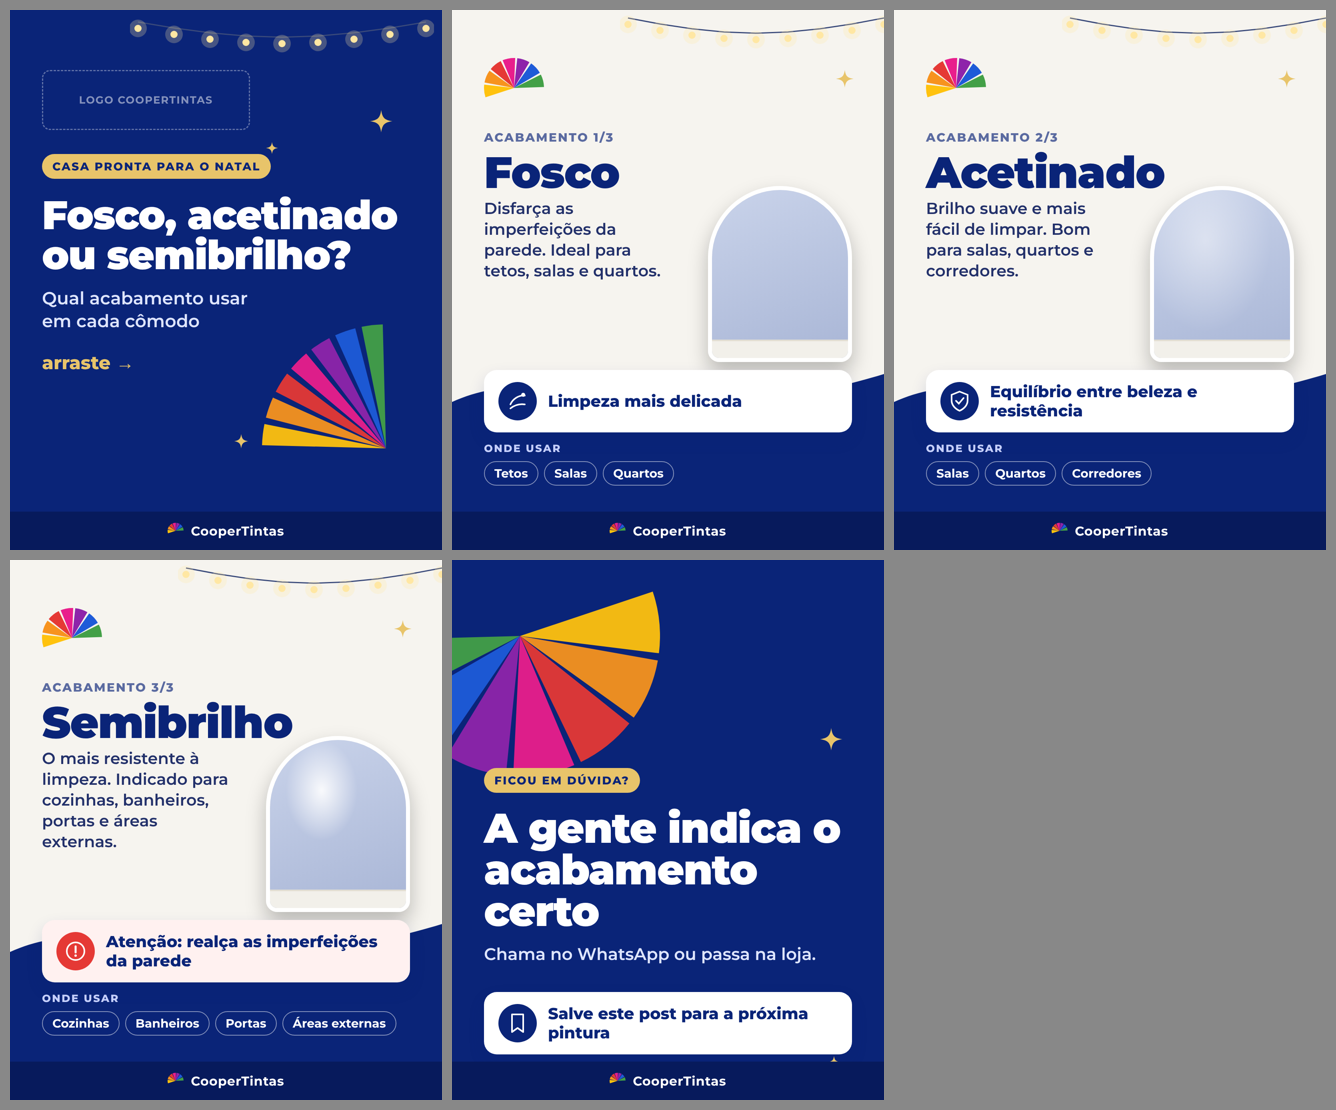
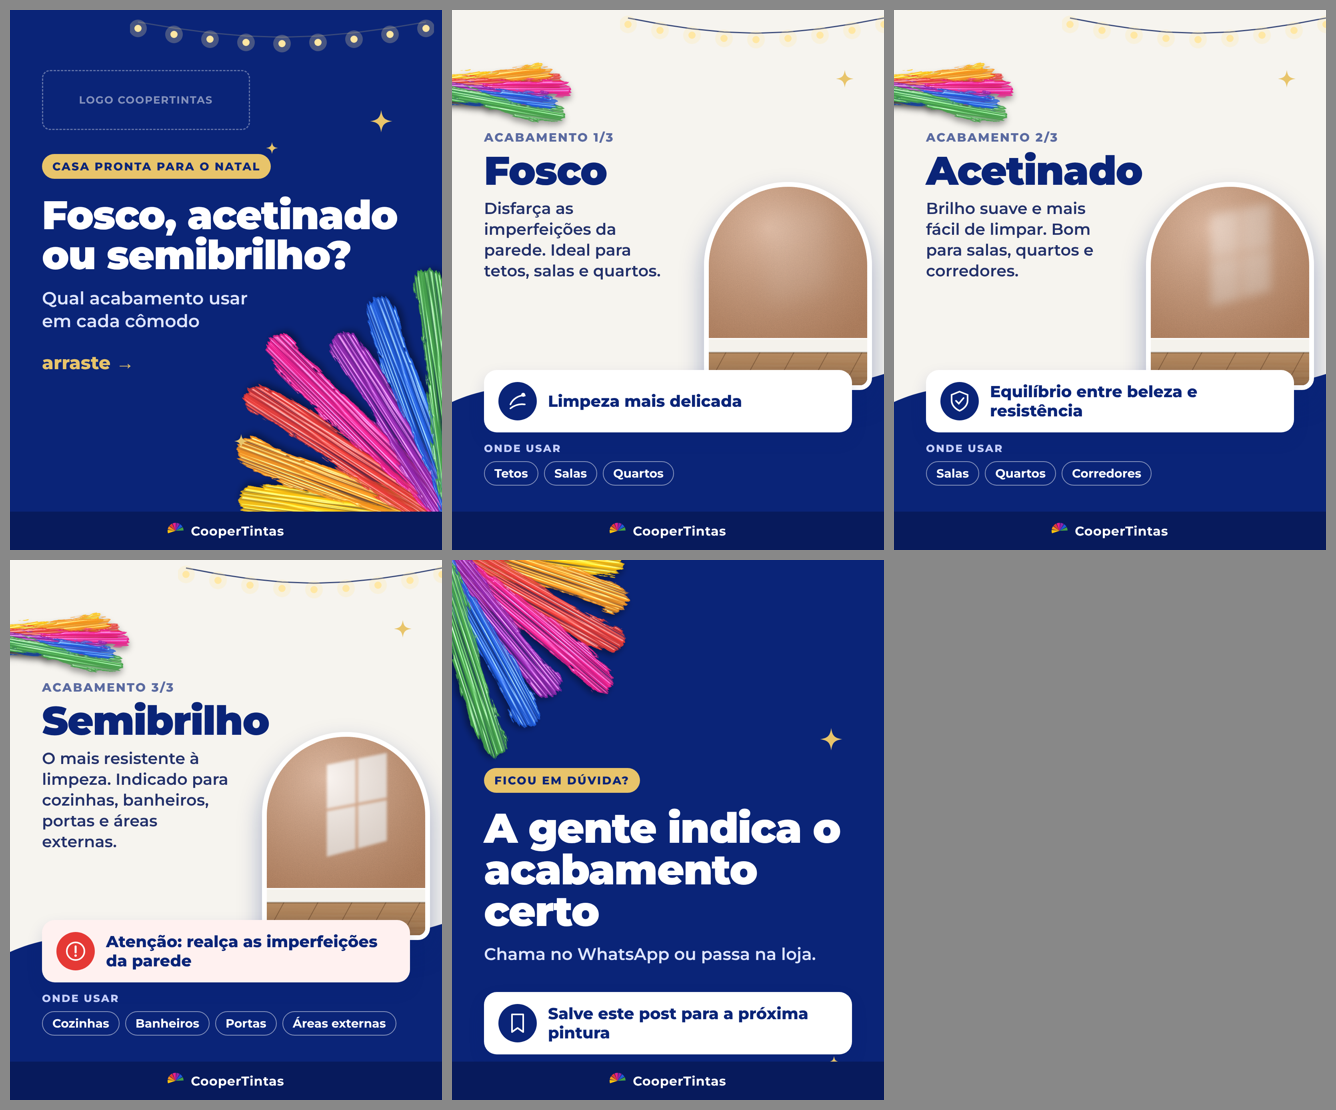
CooperTintas: carrossel de acabamentos com visual realista
Pinceladas com textura de cerdas, relevo e brilho de tinta molhada (filtros SVG);
ambiente com parede rebocada, luz de janela com reflexo conforme o acabamento,
rodapé e piso de madeira. Tudo gerado em código, sem créditos do Canva.

Claude-Session: https://claude.ai/code/session_01Bdkb1FZ5TWkMxf6KJtf18Y

diff --git a/campanhas/artes/natal-2026-coopertintas/gerar.py b/campanhas/artes/natal-2026-coopertintas/gerar.py
@@ -39,12 +39,63 @@ ICONES = {
 def icone(nome, bg=NAVY):
     return f'<div class="ic" style="background:{bg}"><svg width="64" height="64" viewBox="0 0 64 64">{ICONES[nome]}</svg></div>'
 
-def parede(brilho):
-    """Amostra de parede: brilho 0 (fosco), 1 (acetinado), 2 (semibrilho)."""
-    luz = {0: "rgba(255,255,255,0)", 1: "rgba(255,255,255,.45)", 2: "rgba(255,255,255,.9)"}[brilho]
-    tam = {0: "10%", 1: "55%", 2: "30%"}[brilho]
-    return (f'<div class="parede"><div class="tinta" style="background:radial-gradient(ellipse at 38% 30%, {luz} 0%, transparent {tam}),'
-            f'linear-gradient(160deg,#c9d3ea,#a9b6d6)"></div><div class="rodape-p"></div></div>')
+
+FILTROS = """<svg width="0" height="0" style="position:absolute"><defs>
+<filter id="pinc" filterUnits="userSpaceOnUse" x="-2000" y="-2000" width="6000" height="6000" color-interpolation-filters="sRGB">
+ <feTurbulence type="fractalNoise" baseFrequency="0.02 0.12" numOctaves="3" seed="7" result="n1"/>
+ <feDisplacementMap in="SourceGraphic" in2="n1" scale="24" xChannelSelector="R" yChannelSelector="G" result="d"/>
+ <feTurbulence type="fractalNoise" baseFrequency="0.0025 0.42" numOctaves="2" seed="3" result="cerdas"/>
+ <feColorMatrix in="cerdas" type="matrix" values="0 0 0 0 0  0 0 0 0 0  0 0 0 0 0  0 0 0 -2.4 2.15" result="falhas"/>
+ <feComposite in="d" in2="falhas" operator="in" result="tinta"/>
+ <feGaussianBlur in="tinta" stdDeviation="1.6" result="alt"/>
+ <feSpecularLighting in="alt" surfaceScale="6" specularConstant="1.1" specularExponent="28" lighting-color="#ffffff" result="spec"><feDistantLight azimuth="250" elevation="40"/></feSpecularLighting>
+ <feComposite in="spec" in2="tinta" operator="in" result="spec2"/>
+ <feComposite in="tinta" in2="spec2" operator="arithmetic" k1="0" k2="1" k3=".7" k4="0" result="final"/>
+ <feDropShadow in="final" dx="0" dy="10" stdDeviation="8" flood-color="#000" flood-opacity=".4"/>
+</filter>
+<filter id="reboco" x="0" y="0" width="100%" height="100%">
+ <feTurbulence type="fractalNoise" baseFrequency="0.9" numOctaves="3" seed="2" result="g"/>
+ <feColorMatrix in="g" type="matrix" values="0 0 0 0 0  0 0 0 0 0  0 0 0 0 0  0 0 0 .22 -.04"/>
+</filter>
+<filter id="madeira" x="0" y="0" width="100%" height="100%">
+ <feTurbulence type="fractalNoise" baseFrequency="0.004 0.18" numOctaves="3" seed="5" result="m"/>
+ <feColorMatrix in="m" type="matrix" values="0 0 0 0 .45  0 0 0 0 .28  0 0 0 0 .15  0 0 0 .55 0"/>
+</filter>
+<filter id="borra"><feGaussianBlur stdDeviation="14"/></filter>
+<filter id="borra2"><feGaussianBlur stdDeviation="5"/></filter>
+</defs></svg>"""
+
+def pinceladas(cx, cy, raio, ang0, ang1, larg=70, escala=1.0):
+    """Leque de pinceladas realistas saindo de (cx, cy), nas cores do leque da logo."""
+    n = len(LEQUE); out = []
+    for i, cor in enumerate(LEQUE):
+        a = ang0 + (ang1 - ang0) * i / (n - 1)
+        comp = raio * (0.82 + 0.18 * ((i * 37) % 7) / 6)
+        curva = 30 if i % 2 else -30
+        out.append(f'<g transform="rotate({a:.1f} {cx} {cy})"><path filter="url(#pinc)" d="M{cx+60} {cy} C {cx+comp*.35} {cy+curva}, {cx+comp*.7} {cy-curva}, {cx+comp} {cy}" '
+                   f'stroke="{cor}" stroke-width="{larg}" stroke-linecap="round" fill="none"/></g>')
+    return f'<svg class="abs" style="left:0;top:0" width="{W}" height="{H}" viewBox="0 0 {W} {H}">{"".join(out)}</svg>'
+
+def parede(brilho, cor="#D9A27E"):
+    """Ambiente realista: parede com reboco, luz de janela com reflexo conforme o acabamento, rodapé e piso."""
+    w, h = 420, 520
+    refl = {0: (0.10, 26), 1: (0.38, 12), 2: (0.85, 3)}[brilho]   # (intensidade, desfoque do reflexo)
+    janela = (f'<g opacity="{refl[0]}"><g filter="url(#borra{"2" if brilho==2 else ""})" style="filter:blur({refl[1]}px)">'
+              f'<path d="M150 70 L300 40 L300 260 L150 300Z" fill="#ffffff"/>'
+              f'<path d="M222 55 L228 54 L228 280 L222 282Z M150 180 L300 152 L300 158 L150 186Z" fill="{cor}"/></g></g>')
+    luz_ambiente = f'<radialGradient id="la{brilho}" cx="35%" cy="25%" r="80%"><stop offset="0" stop-color="#fff" stop-opacity=".30"/><stop offset="1" stop-color="#3a1a00" stop-opacity=".22"/></radialGradient>'
+    return f"""<div class="ambiente"><svg width="{w}" height="{h}" viewBox="0 0 {w} {h}">
+<defs>{luz_ambiente}<linearGradient id="piso{brilho}" x1="0" y1="0" x2="0" y2="1"><stop offset="0" stop-color="#b98a5e"/><stop offset="1" stop-color="#7a5434"/></linearGradient></defs>
+<rect width="{w}" height="{h-110}" fill="{cor}"/>
+<rect width="{w}" height="{h-110}" filter="url(#reboco)"/>
+{janela}
+<rect width="{w}" height="{h-110}" fill="url(#la{brilho})"/>
+<rect y="{h-110}" width="{w}" height="110" fill="url(#piso{brilho})"/>
+<rect y="{h-110}" width="{w}" height="110" filter="url(#madeira)"/>
+{"".join(f'<line x1="{x}" y1="{h-110}" x2="{x-60}" y2="{h}" stroke="#5c3d24" stroke-width="2" opacity=".5"/>' for x in range(-40, w+120, 85))}
+<rect y="{h-140}" width="{w}" height="34" fill="#f4f2ec"/><rect y="{h-108}" width="{w}" height="5" fill="#000" opacity=".18"/>
+<rect y="{h-142}" width="{w}" height="3" fill="#fff"/>
+</svg></div>"""
 
 CSS = f"""
 *{{margin:0;padding:0;box-sizing:border-box}}
@@ -60,7 +111,7 @@ p{{font-weight:600;font-size:42px;line-height:1.3}}
 .card{{display:flex;gap:28px;align-items:center;background:#fff;border-radius:32px;padding:30px 36px;box-shadow:0 18px 40px rgba(10,36,120,.14)}}
 .card b{{font-size:40px;font-weight:800;line-height:1.2}}
 .rod{{position:absolute;left:0;right:0;bottom:0;height:96px;background:{NAVY2};color:#fff;display:flex;align-items:center;justify-content:center;gap:18px;font-weight:700;font-size:32px;letter-spacing:1px}}
-.parede{{position:relative;width:360px;height:440px;border-radius:180px 180px 28px 28px;overflow:hidden;box-shadow:0 24px 50px rgba(0,0,0,.25);border:10px solid #fff}}
+.ambiente{{width:420px;height:520px;border-radius:210px 210px 30px 30px;overflow:hidden;box-shadow:0 30px 60px rgba(10,36,120,.35);border:12px solid #fff}}
 .tinta{{position:absolute;inset:0}}
 .rodape-p{{position:absolute;left:0;right:0;bottom:0;height:46px;background:#f2f0ea;border-top:4px solid #e2ded3}}
 .abs{{position:absolute}}
@@ -69,13 +120,13 @@ FONTE = '<link href="https://fonts.googleapis.com/css2?family=Montserrat:wght@60
 ONDA = f'<svg class="onda" width="{W}" height="520" viewBox="0 0 1080 520" preserveAspectRatio="none"><path d="M0 150 C260 30 560 240 1080 80 L1080 520 L0 520Z" fill="{NAVY}"/></svg>'
 ROD = f'<div class="rod">{leque(40,-200,200,4)}<span>CooperTintas</span></div>'
 
-def pagina(corpo): return f'<!doctype html><html><head><meta charset="utf-8">{FONTE}<style>{CSS}</style></head><body><div class="r">{corpo}</div></body></html>'
+def pagina(corpo): return f'<!doctype html><html><head><meta charset="utf-8">{FONTE}<style>{CSS}</style></head><body>{FILTROS}<div class="r">{corpo}</div></body></html>'
 
 slides = []
 # 1 capa
 slides.append(pagina(f"""
 <div class="abs" style="left:0;top:0;right:0;bottom:0;background:{NAVY}"></div>
-<div class="abs" style="right:-170px;bottom:-60px;opacity:.95">{leque(620,-180,90,3)}</div>
+{pinceladas(1130, 1300, 640, -172, -98, 74)}
 <div class="abs" style="left:300px;top:-10px">{luzinhas(760,40)}</div>
 <div class="abs" style="left:80px;top:150px;width:520px;height:150px;border:3px dashed rgba(255,255,255,.35);border-radius:20px;display:flex;align-items:center;justify-content:center;color:rgba(255,255,255,.5);font-weight:700;font-size:26px;letter-spacing:2px">LOGO COOPERTINTAS</div>
 <div class="abs" style="left:80px;top:360px;width:900px">
@@ -93,13 +144,13 @@ def slide_acab(num, nome, texto, destaque, icone_nome, brilho, usos, alerta=Fals
     return pagina(f"""
 {ONDA}
 <div class="abs" style="left:420px;top:-10px">{luzinhas(680,30)}</div>
-<div class="abs" style="left:80px;top:120px">{leque(150,-200,200,4)}</div>
+{pinceladas(-80, 200, 360, -10, 10, 34)}
 <div class="abs" style="left:80px;top:300px;width:920px">
   <div style="font-weight:800;font-size:30px;letter-spacing:3px;color:#5a6aa0">ACABAMENTO {num}/3</div>
-  <h2 style="margin-top:14px;font-size:110px">{nome}</h2>
+  <h2 style="margin-top:14px;font-size:100px">{nome}</h2>
 </div>
 <div class="abs" style="left:80px;top:470px;width:470px"><p style="color:#22306a;font-size:40px">{texto}</p></div>
-<div class="abs" style="left:640px;top:440px">{parede(brilho)}</div>
+<div class="abs" style="left:630px;top:430px">{parede(brilho)}</div>
 <div class="abs" style="left:80px;right:80px;top:1080px">
   <div style="color:#c9d3ff;font-weight:800;font-size:26px;letter-spacing:3px;margin-bottom:16px">ONDE USAR</div>
   <div style="display:flex;flex-wrap:wrap;gap:14px">{"".join(f'<span style="border:2px solid rgba(255,255,255,.5);color:#fff;border-radius:40px;padding:10px 24px;font-weight:700;font-size:30px">{u}</span>' for u in usos)}</div>
@@ -114,7 +165,7 @@ slides.append(slide_acab(3, "Semibrilho", "O mais resistente à limpeza. Indicad
 # 5 fechamento
 slides.append(pagina(f"""
 <div class="abs" style="left:0;top:0;right:0;bottom:0;background:{NAVY}"></div>
-<div class="abs" style="left:-180px;top:-160px;opacity:.95">{leque(700,-20,200,3)}</div>
+{pinceladas(-60, -60, 560, 8, 72, 66)}
 <div class="abs" style="left:80px;top:520px;width:920px">
   <span class="tag ouro">FICOU EM DÚVIDA?</span>
   <h1 style="color:#fff;margin-top:36px;font-size:104px">A gente indica o acabamento certo</h1>
